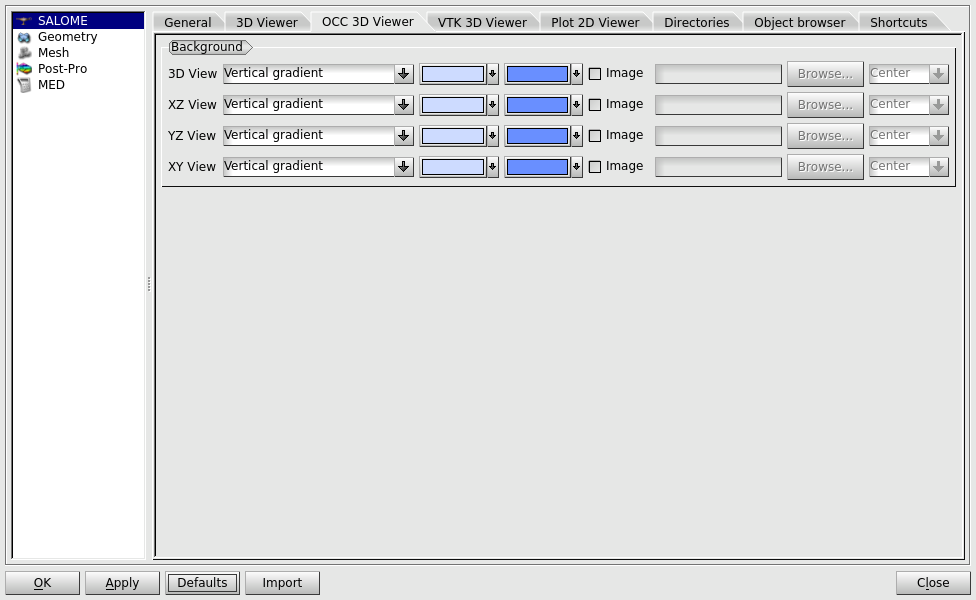
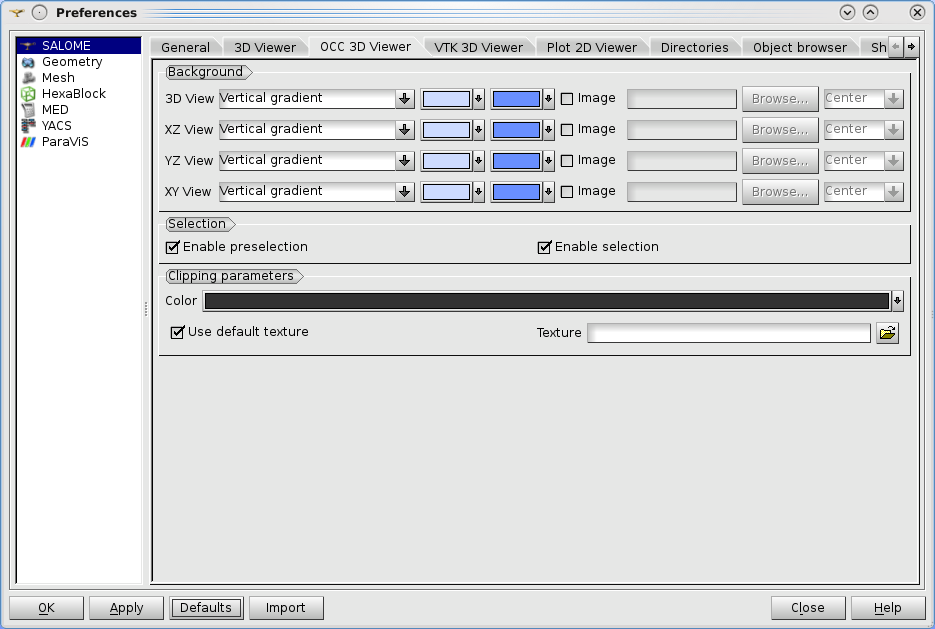
0022781: [CEA 1281] Preferences of colors and textures of clipping planes

Changed region(s): [[0.0, 0.0, 1.0, 1.0]]

diff --git a/src/LightApp/resources/LightApp_msg_ja.ts b/src/LightApp/resources/LightApp_msg_ja.ts
@@ -760,6 +760,26 @@ session. It has to be closed before working with another study.</translation>
       <translation>無効になっています。</translation>
     </message>
     <message>
+        <source>PREF_GROUP_CLIPPING</source>
+        <translation type="unfinished">Clipping</translation>
+    </message>
+    <message>
+        <source>PREF_CLIPPING_COLOR</source>
+        <translation type="unfinished">Color</translation>
+    </message>
+    <message>
+        <source>PREF_CLIPPING_DEFAULT_TEXTURE</source>
+        <translation type="unfinished">Use default texture</translation>
+    </message>
+    <message>
+        <source>PREF_CLIPPING_TEXTURE</source>
+        <translation type="unfinished">Texture</translation>
+    </message>
+    <message>
+        <source>OCC_TEXTURE_FILES</source>
+        <translation>イメージファイル (*.jpeg *jpg *.jpe *.png *.bmp *.gif *.ppm *.tif *.tiff* .tga *.exr)</translation>
+    </message>
+    <message>
       <source>TOT_CLOSE</source>
       <translation>閉じる</translation>
     </message>

diff --git a/src/LightApp/resources/LightApp_msg_fr.ts b/src/LightApp/resources/LightApp_msg_fr.ts
@@ -760,6 +760,26 @@ Les modifications seront appliquées à la prochaine session.</translation>
         <translation>Désactivée</translation>
     </message>
     <message>
+        <source>PREF_GROUP_CLIPPING</source>
+        <translation>Plan de coupe</translation>
+    </message>
+    <message>
+        <source>PREF_CLIPPING_COLOR</source>
+        <translation>Couleur</translation>
+    </message>
+    <message>
+        <source>PREF_CLIPPING_DEFAULT_TEXTURE</source>
+        <translation type="unfinished">Use default texture</translation>
+    </message>
+    <message>
+        <source>PREF_CLIPPING_TEXTURE</source>
+        <translation>Texture</translation>
+    </message>
+    <message>
+        <source>OCC_TEXTURE_FILES</source>
+        <translation>Fichiers images (*.jpeg *jpg *.jpe *.png *.bmp *.gif *.ppm *.tif *.tiff* .tga *.exr)</translation>
+    </message>
+    <message>
         <source>TOT_CLOSE</source>
         <translation>Fermer</translation>
     </message>

diff --git a/src/LightApp/resources/LightApp_msg_en.ts b/src/LightApp/resources/LightApp_msg_en.ts
@@ -760,6 +760,26 @@ The changes will be applied on the next application session.</translation>
         <translation>Disabled</translation>
     </message>
     <message>
+        <source>PREF_GROUP_CLIPPING</source>
+        <translation>Clipping parameters</translation>
+    </message>
+    <message>
+        <source>PREF_CLIPPING_COLOR</source>
+        <translation>Color</translation>
+    </message>
+    <message>
+        <source>PREF_CLIPPING_DEFAULT_TEXTURE</source>
+        <translation>Use default texture</translation>
+    </message>
+    <message>
+        <source>PREF_CLIPPING_TEXTURE</source>
+        <translation>Texture</translation>
+    </message>
+    <message>
+        <source>OCC_TEXTURE_FILES</source>
+        <translation>Image files (*.jpeg *jpg *.jpe *.png *.bmp *.gif *.ppm *.tif *.tiff* .tga *.exr)</translation>
+    </message>
+    <message>
         <source>TOT_CLOSE</source>
         <translation>Close</translation>
     </message>

diff --git a/src/OCCViewer/OCCViewer_ViewModel.h b/src/OCCViewer/OCCViewer_ViewModel.h
@@ -147,6 +147,15 @@ public:
   void                            enableMultiselection(bool isEnable);
   bool                            isMultiSelectionEnabled() const { return myMultiSelectionEnabled; }
 
+  void                            setClippingColor( const QColor& );
+  QColor                          clippingColor() const;
+
+  void                            useDefaultTexture( const bool );
+  bool                            isDefaultTextureUsed() const;
+
+  void                            setClippingTexture( const QString& );
+  QString                         clippingTexture() const;
+
   int                             getSelectionCount() const { return (!myAISContext.IsNull())? myAISContext->NbSelected():0; }
 
   void                            setStaticTrihedronDisplayed(const bool on);
@@ -191,6 +200,7 @@ protected slots:
   void onChangeBackground();
 
 protected:
+
   Handle(V3d_Viewer)              myV3dViewer;
 
   Handle(AIS_Trihedron)           myTrihedron;
@@ -217,6 +227,11 @@ protected:
 
   ClipPlanesList                  myClipPlanes;
   Graphic3d_SequenceOfHClipPlane  myInternalClipPlanes;
+
+  QColor                          myClippingColor;
+  bool                            myDefaultTextureUsed;
+  QString                         myClippingTexture;
+
 };
 
 #ifdef WIN32
